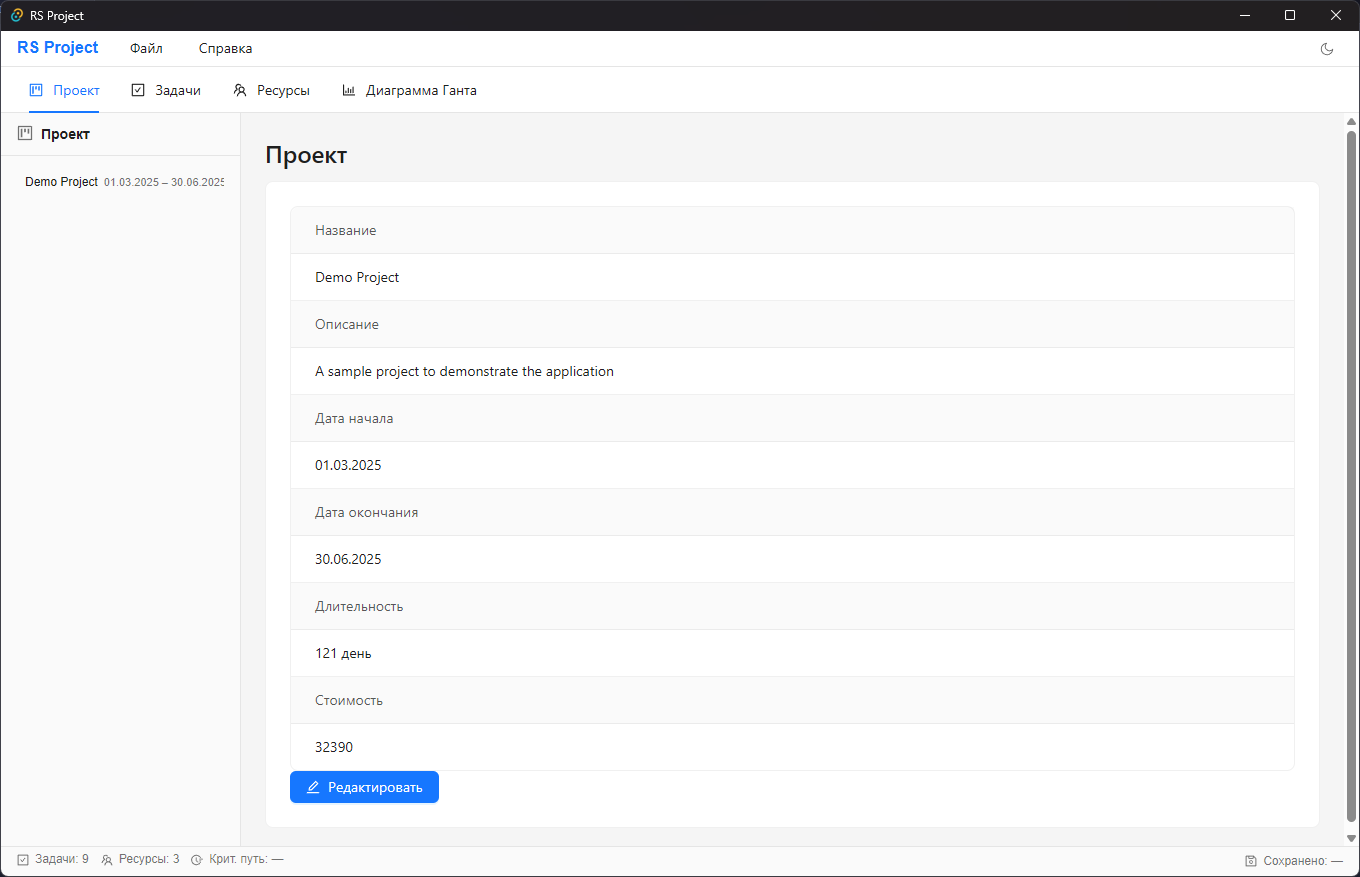
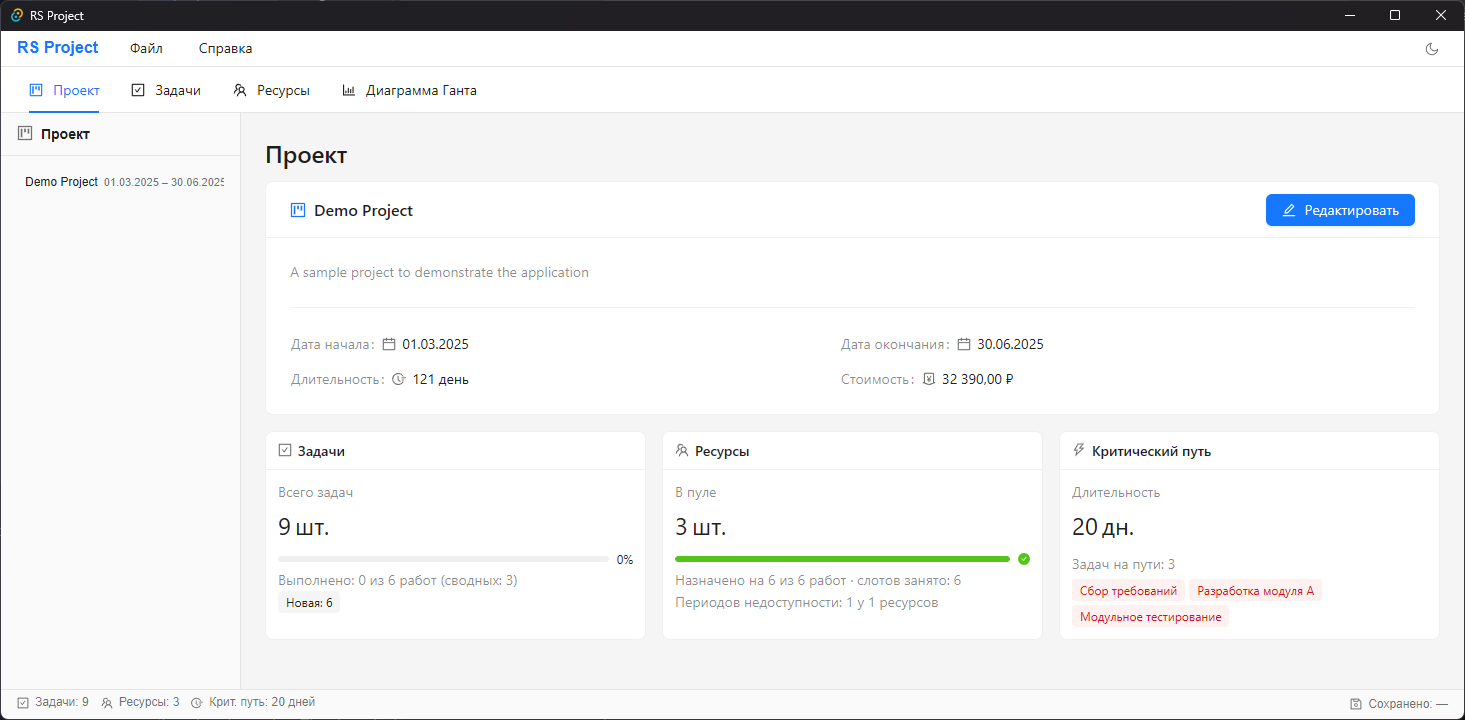
- версия 0.1.3 во всех манифестах (Cargo, Tauri, npm, constants.js) - CHANGELOG: изменение экрана проекта - README: переименование раздела и выравнивание таблицы - обновлён скриншот главного экрана - engines.node в package.json, починена ссылка repository

diff --git a/app/src/lib/constants.js b/app/src/lib/constants.js
@@ -10,4 +10,4 @@
 export const REPO_URL = "https://github.com/DarkwingDuck48/rsproject";
 
 /** Текущая версия приложения (SemVer). */
-export const APP_VERSION = "0.1.2";
+export const APP_VERSION = "0.1.3";

diff --git a/CHANGELOG.md b/CHANGELOG.md
@@ -7,6 +7,10 @@
 
 ## [Unreleased]
 
+### Изменено
+
+- Изменён экран проекта (вкладка «Проект»): обновлён интерфейс и визуальное оформление
+
 ## [0.1.2] — 2026-09-16
 
 ### Добавлено
